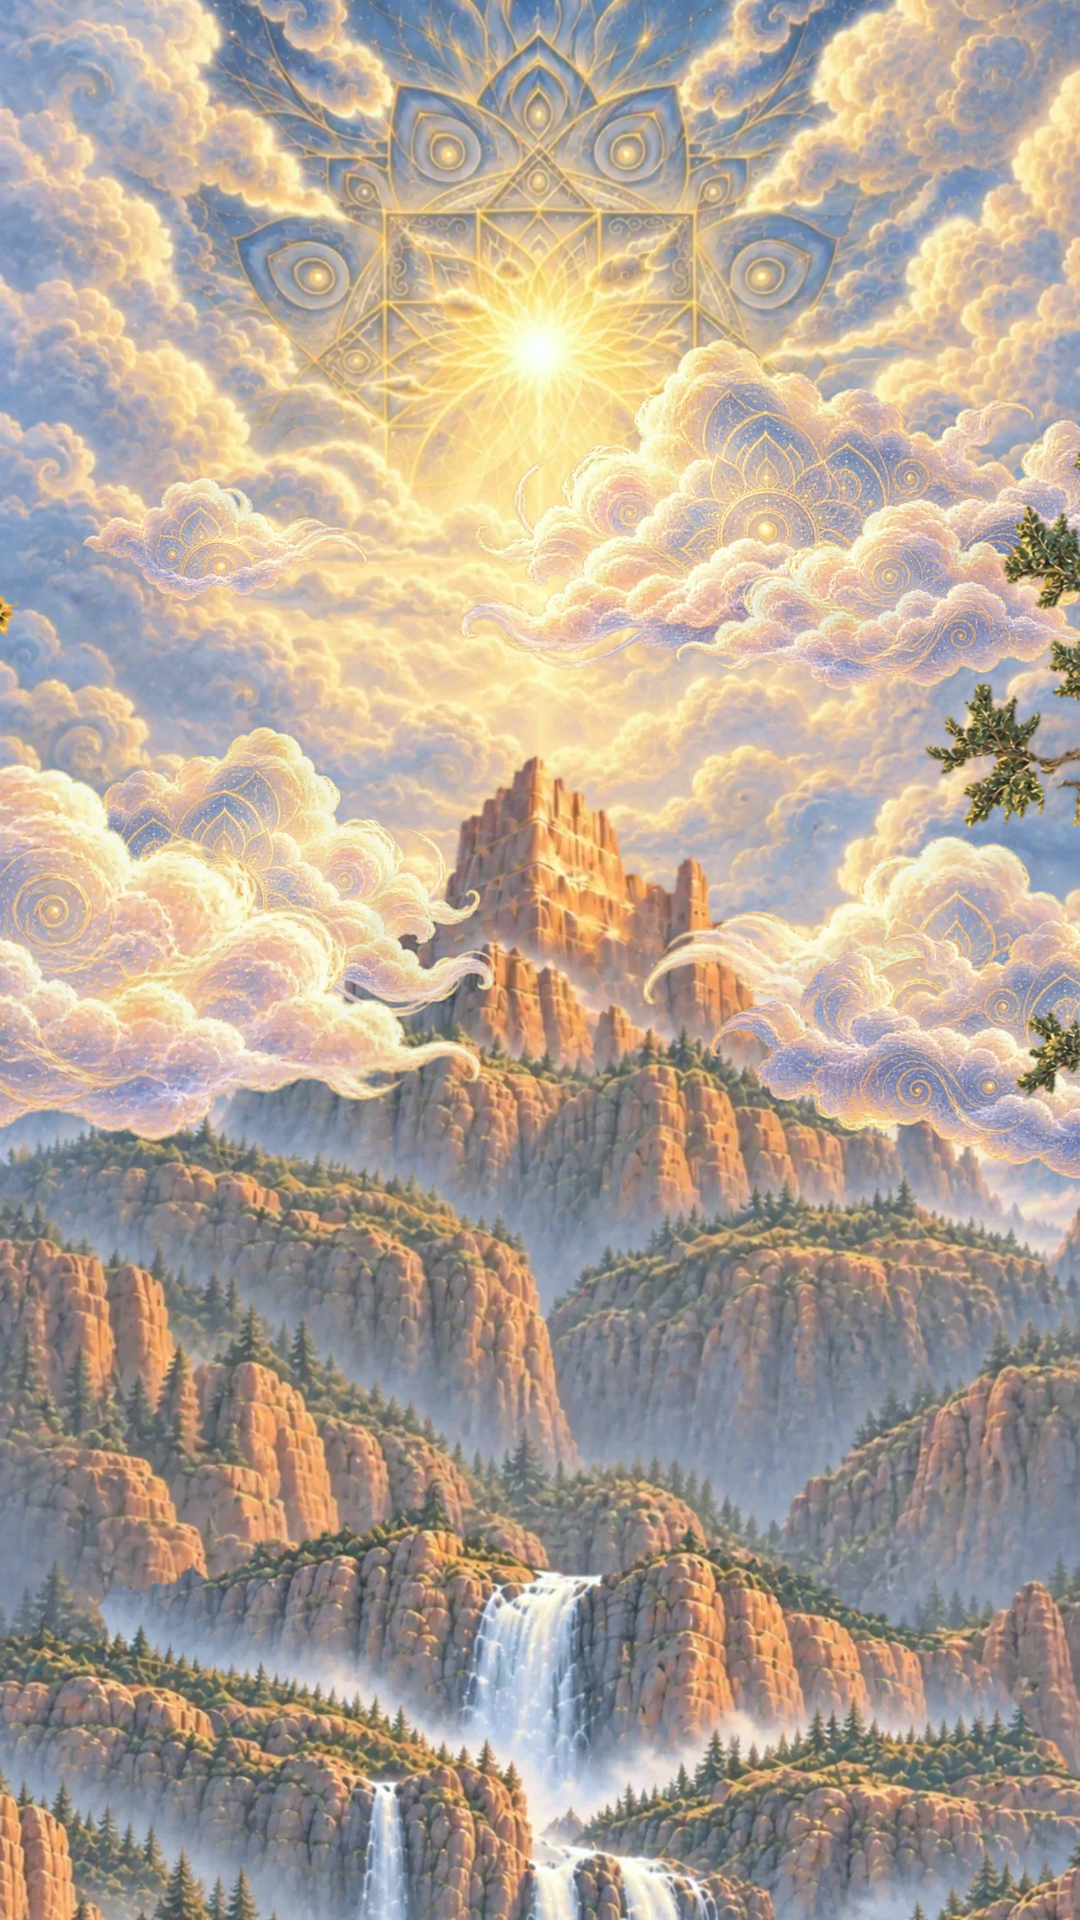
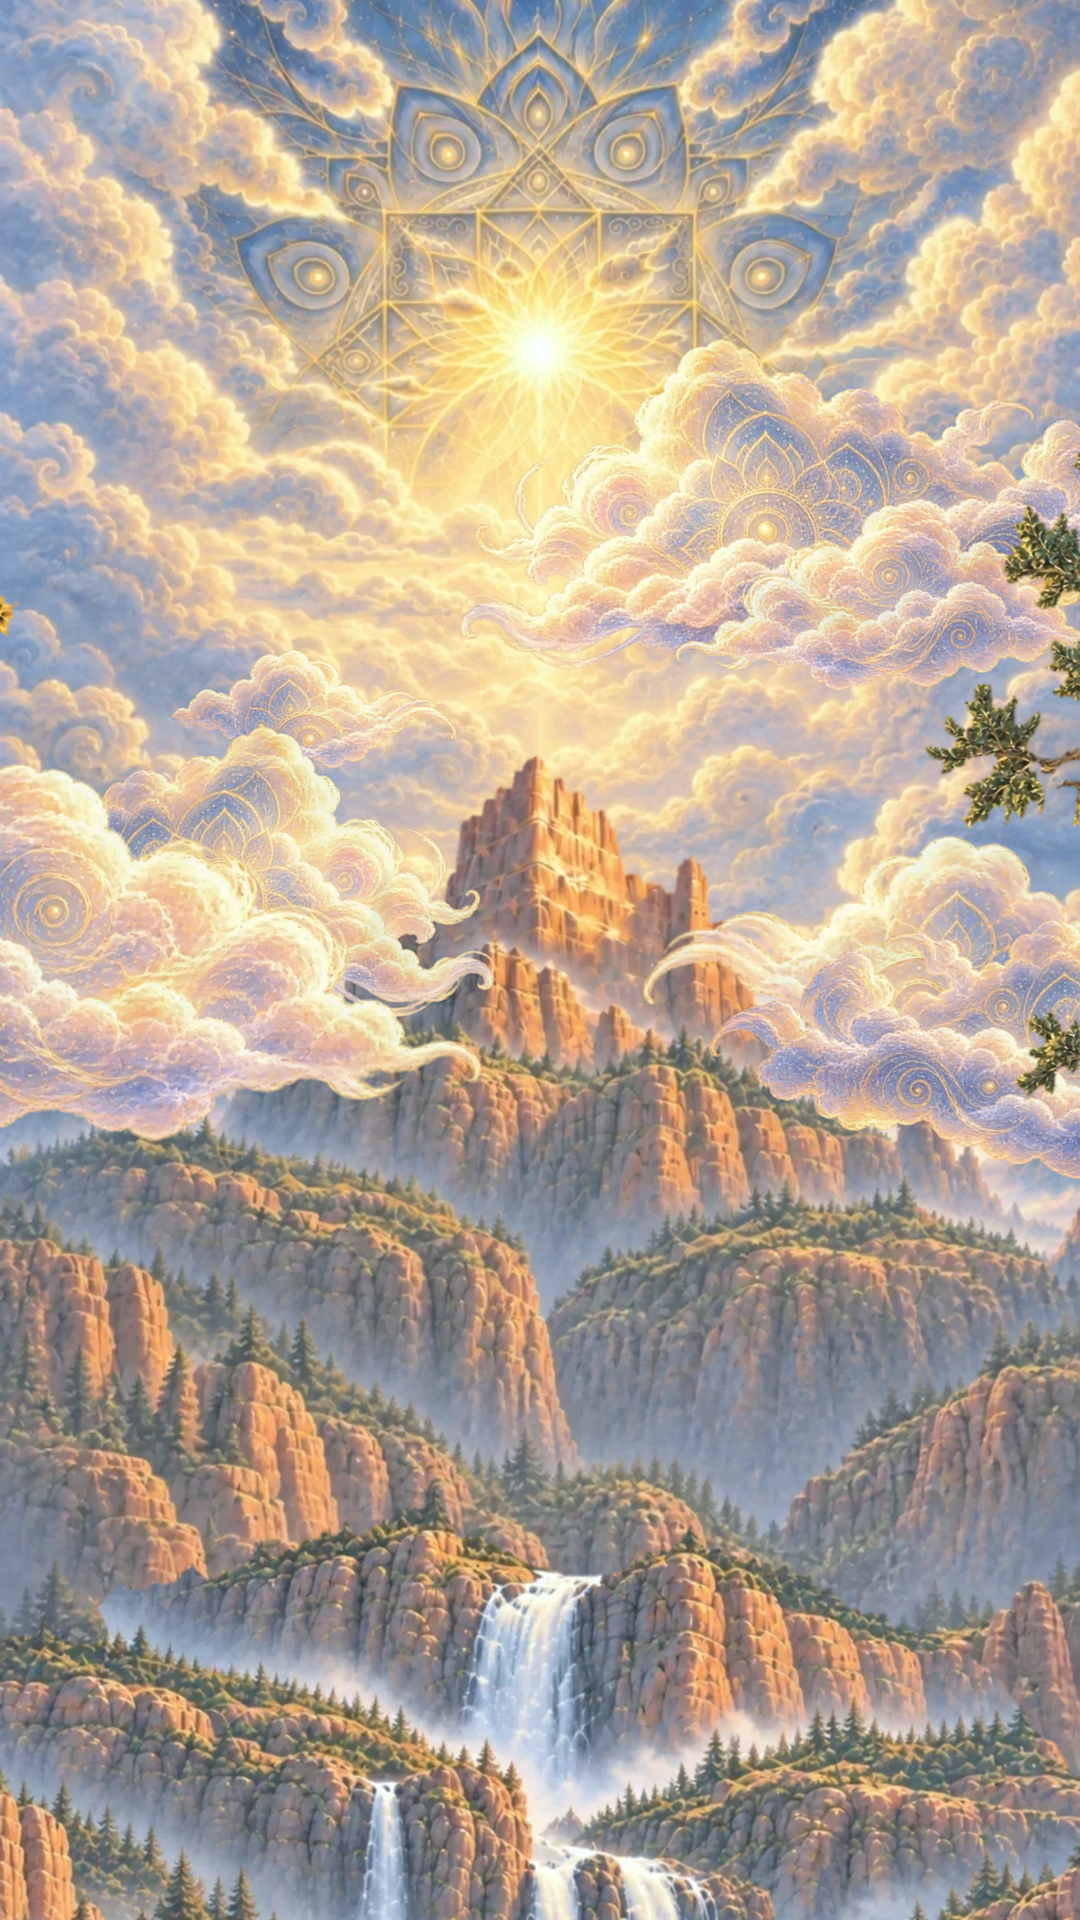
World v3 landing: back-left cloud moved in to hug the castle
Claude-Session: https://claude.ai/code/session_01X5u2D9a4RRbbCvwnE6RQKF

Changed region(s): [[0.0917, 0.25, 0.3056, 0.3125], [0.1528, 0.3438, 0.3972, 0.4062]]

diff --git a/prototype/world-v3-preview/trev-world-scroll.html b/prototype/world-v3-preview/trev-world-scroll.html
@@ -58,7 +58,7 @@ const LAYERS = [
 // front of that layer.
 const CLOUDS = [
   { src: "burnell-world-cloud-large.webp",  after: "sky",        depth: 0.5,  w: 660, x0: 720, y0: 440,  dir: 1,  op: 0.97, flip: true }, // between the sun and the castle
-  { src: "burnell-world-cloud-small.webp",  after: "mountains",  depth: 0.35, w: 250, x0: 190, y0: 470,  dir: -1, op: 0.85 },
+  { src: "burnell-world-cloud-small.webp",  after: "mountains",  depth: 0.35, w: 250, x0: 268, y0: 620,  dir: -1, op: 0.85 },
   { src: "burnell-world-cloud-medium.webp", after: "mountains",  depth: 0.35, w: 380, x0: 780, y0: 520,  dir: 1,  op: 0.85, flip: true },
   { src: "burnell-world-cloud-large.webp",  after: "falls",      depth: 0.65, w: 580, x0: 150, y0: 760,  dir: -1, op: 0.9 },
   { src: "burnell-world-cloud-small.webp",  after: "falls",      depth: 0.65, w: 470, x0: 800, y0: 830,  dir: 1,  op: 0.9, flip: true },
